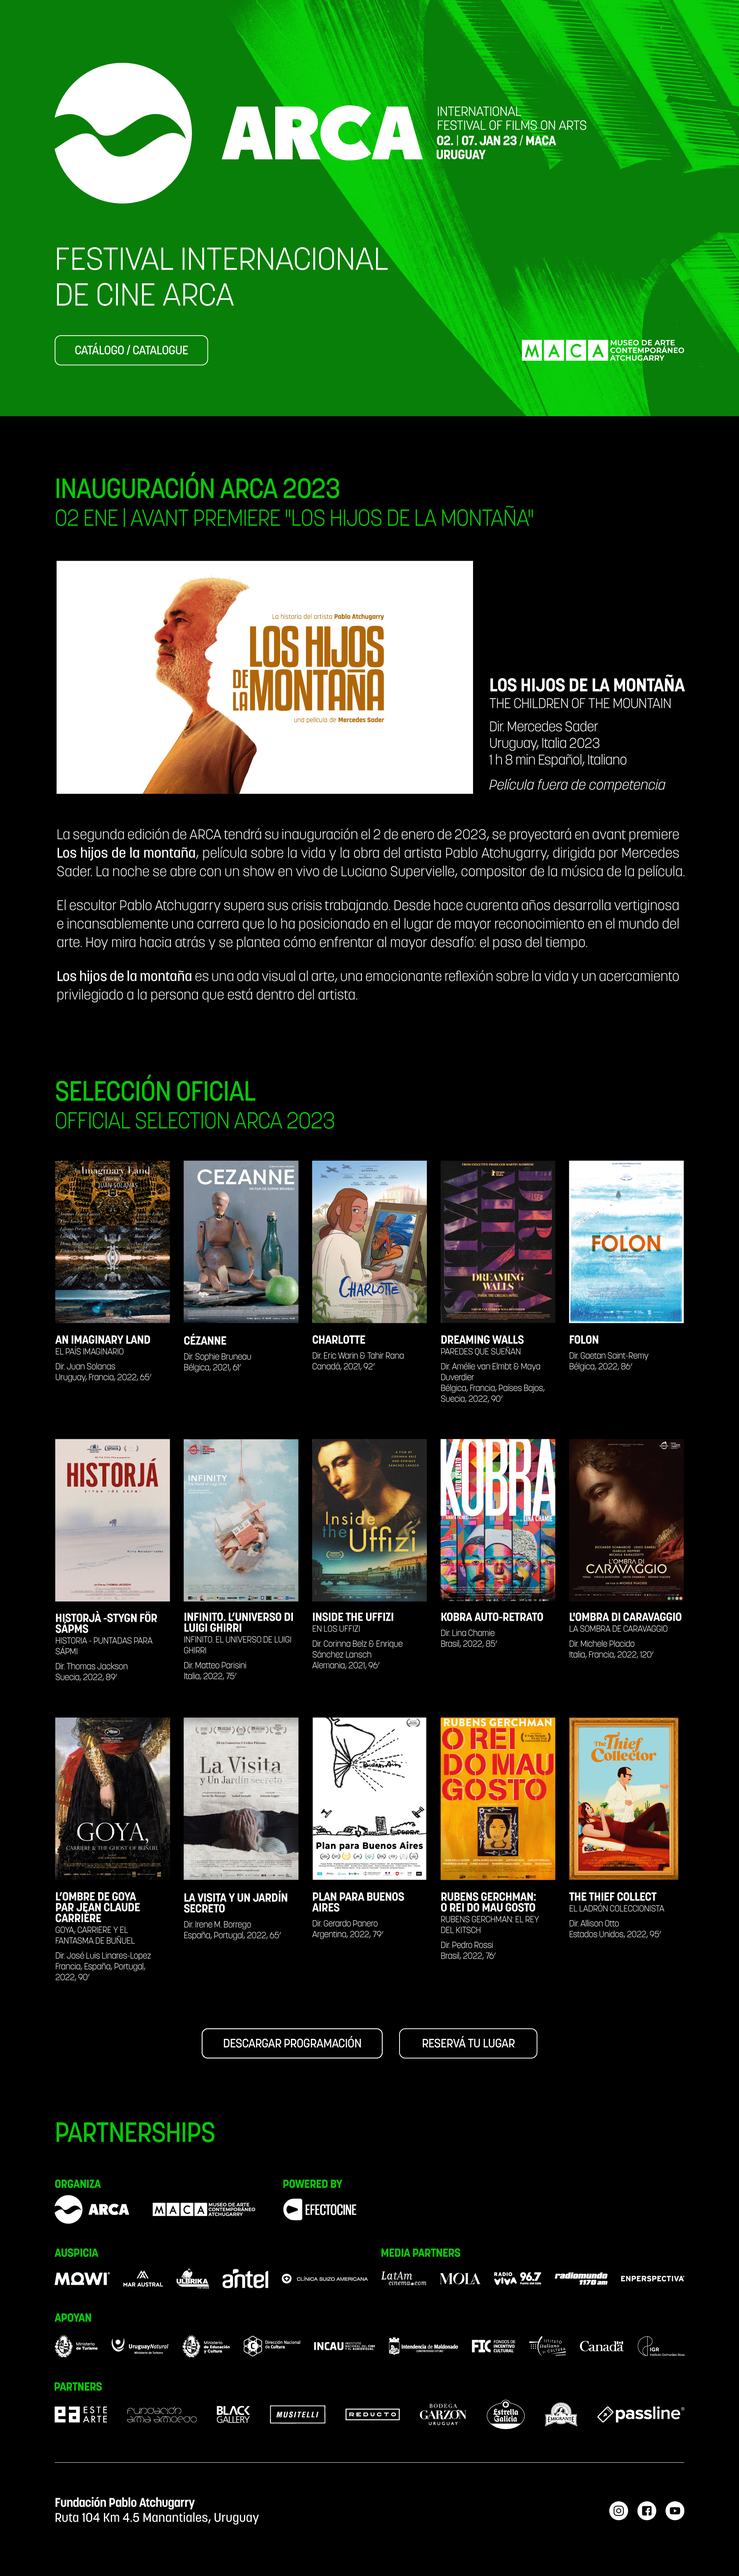
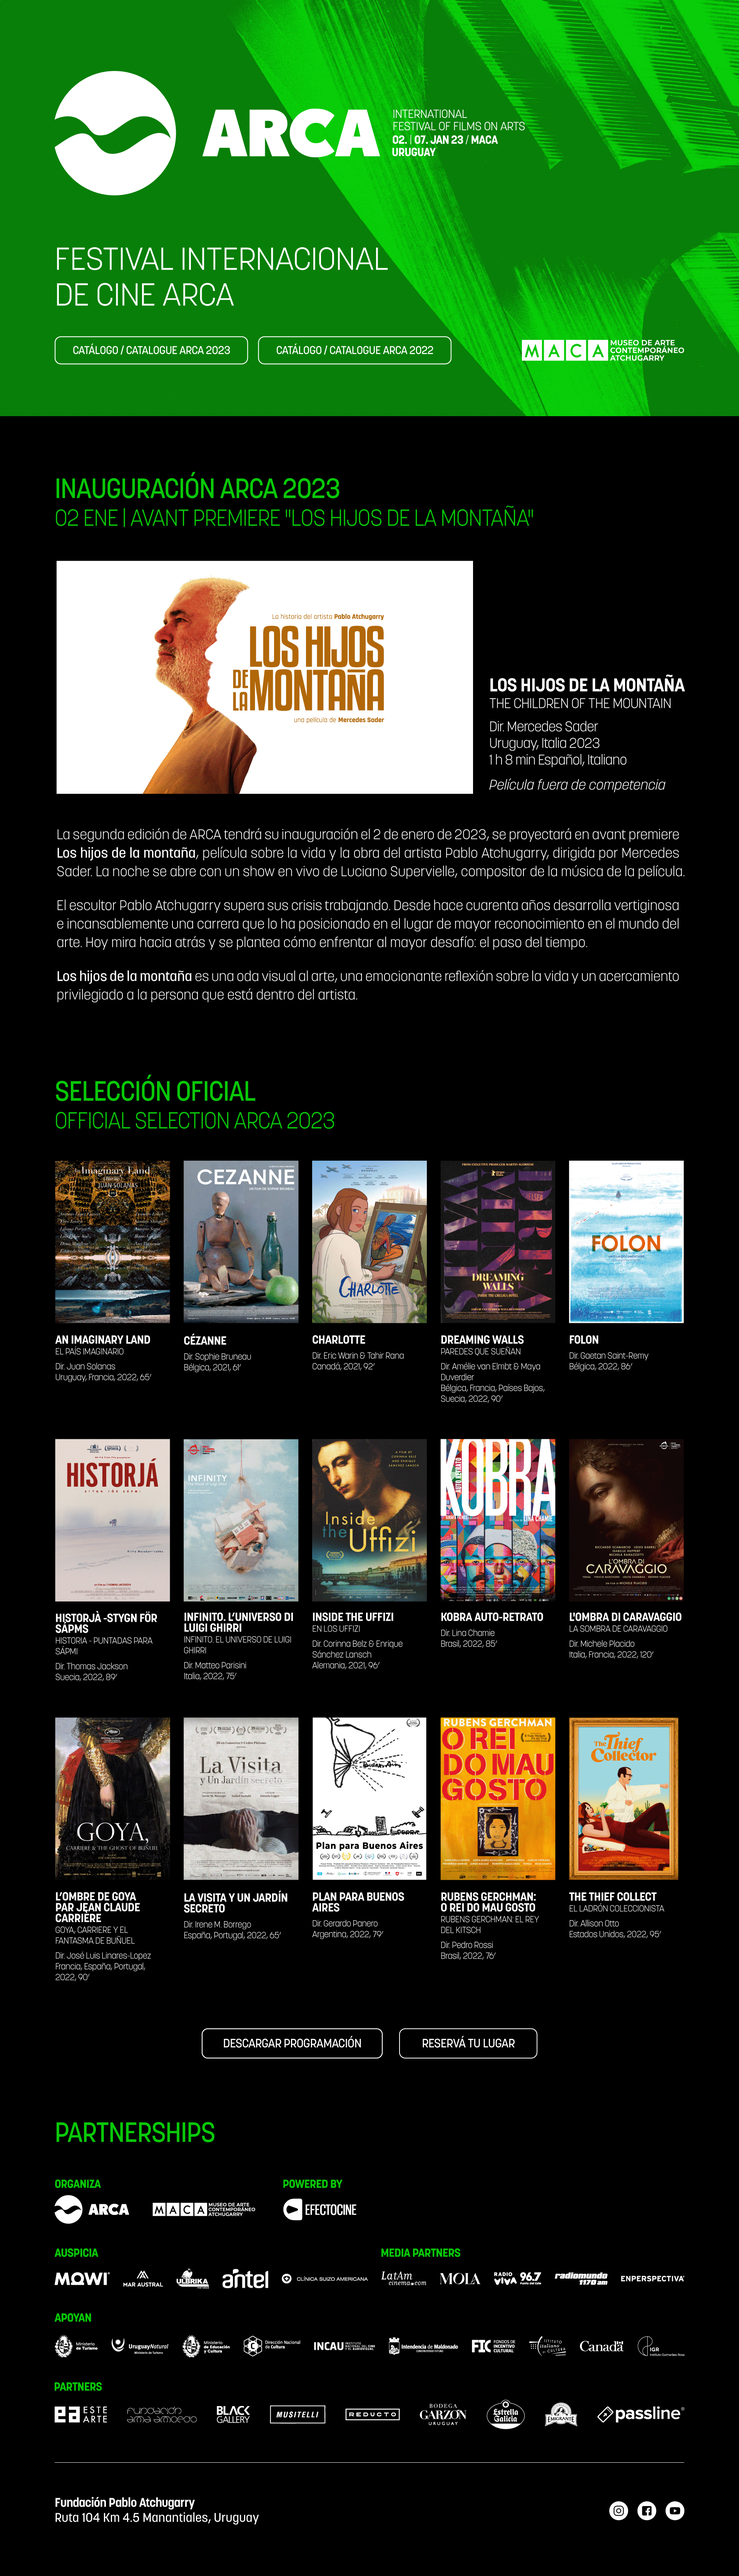
actualizacion de opciones de catalogos

Changed region(s): [[0.1562, 0.0, 0.75, 0.0933], [0.0938, 0.1245, 0.2812, 0.1556]]

diff --git a/index.html b/index.html
@@ -19,7 +19,8 @@
 
 <map name="image-map">
     <area target="_blank" alt="MACA" title="MACA" href="https://macamuseo.org/" coords="1786,948,1347,868" shape="rect">
-    <area target="_blank" alt="Catálogo" title="Catálogo" href="media/catalogo-arca-iff-22-web.pdf" coords="137,953,544,865" shape="rect">
+    <area target="_blank" alt="Catálogo 2023" title="Catálogo 2023" href="https://www.instagram.com/arcaiff/" coords="137,868,646,948" shape="rect">
+    <area target="_blank" alt="Catálogo 2022" title="Catálogo 2022" href="media/catalogo-arca-iff-22-web.pdf" coords="665,867,1177,952" shape="rect">
     <area target="_blank" alt="Los Hijos de la Montaña" title="Los Hijos de la Montaña" href="https://youtu.be/teJVTplHW5I" coords="144,1455,1228,2061" shape="rect">
     <area target="_blank" alt="An Imaginary Land" title="An Imaginary Land" href="https://vimeo.com/738726277" coords="141,3011,441,3437" shape="rect">
     <area target="_blank" alt="Cezanne" title="Cezanne" href="https://vimeo.com/524899157" coords="477,3013,775,3437" shape="rect">
